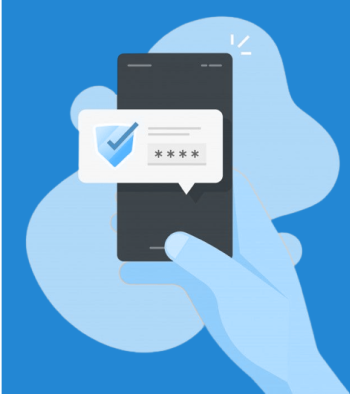
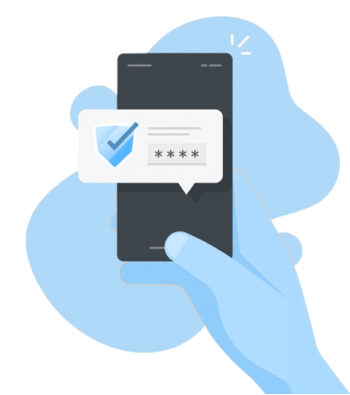
updates

diff --git a/app/(tabs)/index.tsx b/app/(tabs)/index.tsx
@@ -52,8 +52,8 @@ export default function HomeScreen() {
           </Text>
         </View>
         <Image
-          source={{ uri: "https://example.com/report-damages.png" }} // Replace with your image URL
-          className="w-16 h-16"
+          source={require("@/assets/images/report-damages.png")}
+          className="size-[80px]"
           resizeMode="contain"
         />
       </TouchableOpacity>

diff --git a/app/(tabs)/_layout.tsx b/app/(tabs)/_layout.tsx
@@ -76,7 +76,7 @@ export default function TabLayout() {
         />
       </Tabs>
 
-      <StatusBar style="light" />
+      <StatusBar style="dark" />
     </>
   );
 }
